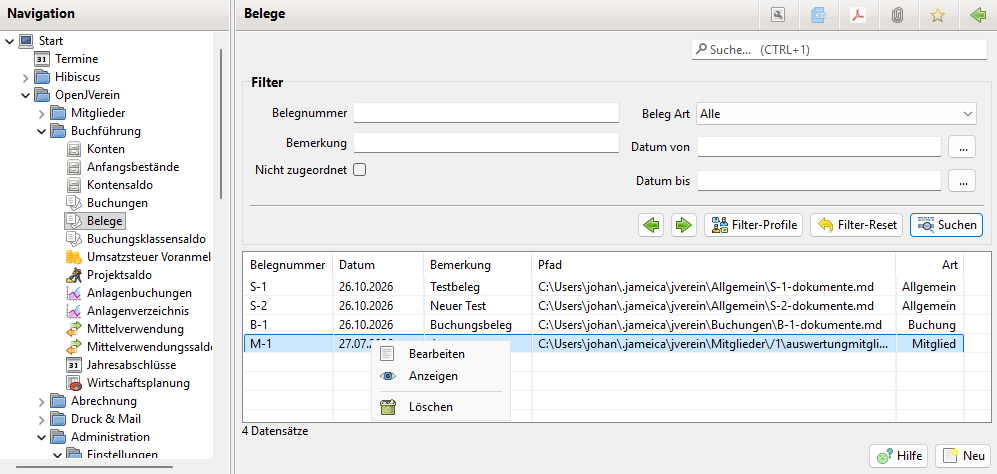
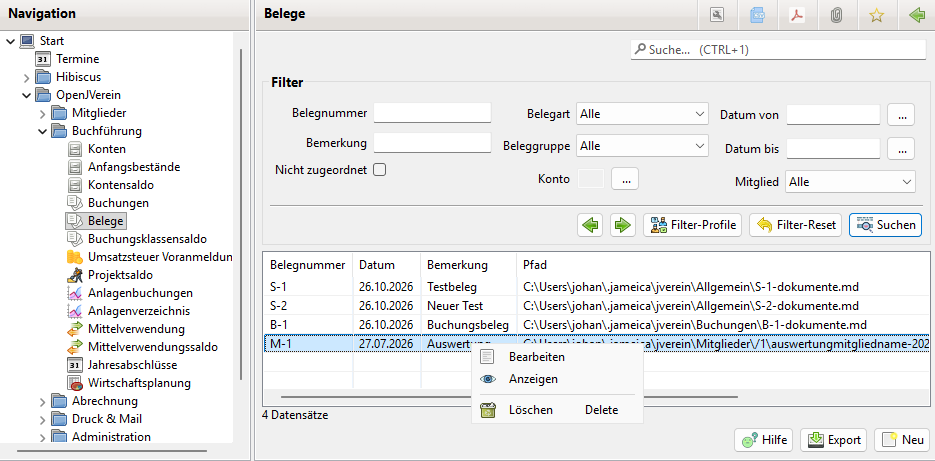
5.0 Updates

Changed region(s): [[0.0, 0.0, 1.0, 1.0]]

diff --git a/v/5.0/buchf/belege.md b/v/5.0/buchf/belege.md
@@ -2,15 +2,26 @@
 
 ## Aktivierung
 
-Zur Nutzung der Beleg ist die Option unter Administration->Einstellungen->Anzeige Dokumentenspeicherung zu aktivieren.
+Zur Nutzung der Belege ist unter Administration->Einstellungen->Anzeige die Option Dokumentenspeicherung zu aktivieren.
 
 
-## Einstellungen
+## Einstellungen für lokale Dokumentenspeicherung
 
 Unter Administration->Einstellungen->Belege können die Wurzelverzeichnisse für die Dokumentspeicherung gesetzt werden. Diese können geändert werden wenn die Dokumente verschoben werden bzw. auf einen anderen Benutzer übertragen werden. Die Verzeichnisse stehen nicht in der Datenbank sondern sind lokal gespeichert.
 
 Unter Administration->Einstellungen->Vorlagen lassen sich die relativen Pfade für die Belege mit Variablen definieren. Ein Beleg wird unter dem  Wurzelverzeichnis und dem relativen Pfad zusammengesetzt.
 
+## Allgemeines
+
+Belege können über Jameica Messaging oder lokal gespeichert werden. es gibt mehrere Arten von Belegen:
+* Allgemeine Belege
+* Buchung Belege
+* Mitglied Belege
+* Konto Belege
+
+Je nach Typ eine Belegs wird dieser bei lokaler Dokumentspeicherung unter einem anderen Verzeichnis gespeichert. 
+
+Unabhängig vom Typ des Belegs kann er trotzdem jeder Buchung, jedem Mitglied oder Konto zugeordnet werden. Ein Beleg kann auch mehreren Objekten gleichzeitig zugeordnet werden.
 
 ## Liste der Belege
 
@@ -20,6 +31,7 @@ In der Liste werden alle Belege aufgelistet und können nach verschiedenen Krite
 
 Folgende Buttons sind vorhanden:
 * Hilfe: Zeigt diese Hilfe an
+* Export: Die Belege lassen sich ein ein externes Verzeichnis exportieren. Dateien lassen sich beim Export nach einem vorgegebenen Muster umbenennen.  Der "Beleg Export Dateiname" lässt sich unter Administration->Einstellungen->Vorlagen unter dem Filter Pfad einstellen
 * Neu: Neuen Beleg erzeugen
 
 Folgende Menü Einträge sind vorhanden:
@@ -35,15 +47,16 @@ Mit dem Neu Button wird ein neuer Beleg angelegt.
 
 Folgende Eingabefelder sind vorhanden:
 * Belegart: Sie bestimmt welcher Pfad zum Speichern verwendet wird und wie die Belegnummer generiert wird
+* Beleggruppe: Sie ist optional. Auch sind erst entsprechende Beleggruppen in den Einstellungen zu erstellen. Siehe [Beleggruppen](../administration/admbuchf/beleggruppe.md).
 * Datum: Hinterlegtes Datum
 * Bemerkung: Text zum Beleg
 * Datei: Hier wird die Datei ausgewählt, die als Beleg gespeichert wird
 
 Belege die hier erzeugt werden sind keiner Buchung oder keinem Mitglied zugeordnet. Das kann später in der Ansicht der Buchung oder des Mitglieds erfolgen.
 
-## Neuer Beleg über Buchung und Mitglied erzeugen
+## Neuer Beleg über Konto, Buchung und Mitglied erzeugen
 
-Im Dialog einer Buchung oder eines Mitglied werden bei aktivierter Dokumentspeicherung die zugeordneten Belege in einer Tabelle angezeigt. Dort lassen sich Belege neu erstellen bzw. bestehende Belege zuordnen.
+Im Dialog eines Kontos, einer Buchung oder eines Mitglied werden bei aktivierter Dokumentspeicherung die zugeordneten Belege in einer Tabelle angezeigt. Dort lassen sich Belege neu erstellen bzw. bestehende Belege zuordnen.
 
 Siehe hierzu [Dokumente](../../../sonstiges/dokumente.md)
 
@@ -62,4 +75,7 @@ Folgende Felder sind vorhanden:
 * Bemerkung: Text zum Beleg
 * Pfad: Pfad unter dem der Beleg gespeichert ist. Diese Information ist nur bei lokaler Speicherung verfügbar
 
-In der Tabelle Buchungen werden diejenigen Buchungen aufgelistet, denen der Beleg zugeordnet ist.
+In den Laschen:
+* Buchungen werden diejenigen Buchungen aufgelistet, denen der Beleg zugeordnet ist
+* Mitglieder werden diejenigen Mitglieder aufgelistet, denen der Beleg zugeordnet ist
+* Konten werden diejenigen Konten aufgelistet, denen der Beleg zugeordnet ist

diff --git a/v/5.0/buchf/buchungen.md b/v/5.0/buchf/buchungen.md
@@ -71,13 +71,34 @@ Buchungen können nur neu aufgenommen, geändert oder gelöscht werden, wenn sie
 
 Durch einen Klick auf den Button "Neu" kann eine neue Buchung erstellt werden.
 
-<picture><img src="https://github.com/openjverein/jverein-Book/raw/master/assets/320_BuchungDialog.png" alt="" /></picture>
+<picture><img src="https://github.com/openjverein/jverein-Book/raw/master/assets/500_BuchungDialog.png" alt="" /></picture>
 
 Falls es sich bei der Buchung um eine Geldspende um einen Verzicht auf Aufwendungen handelt, ist die entsprechende Checkbox zu selektieren.
 
 Handelt es sich bei der Buchung um eine Sachspende so sind die entsprechenden Angaben in der Buchung zu machen.
 
-Falls Dokumentspeicherung aktiviert ist, wird eine Liste angezeigt mit der sich Dokumente zuordnen lassen. Allgemeines zur Dokumentspeicherung siehe [Dokumente](../../../../sonstiges/dokumente.md).
+Falls Dokumentspeicherung aktiviert ist, wird eine Liste angezeigt mit der sich Belege zuordnen lassen. Allgemeines zur Dokumentspeicherung siehe [Dokumente](../../../../sonstiges/dokumente.md).
+
+Über den Button "Neuer Buchungsreport" kann ein Report mit den Daten der Buchung erstellt werden. Falls Dokumentenspeicherung aktiv ist, kann der Reports direkt als Beleg generiert werden. In diesem Fall kann auch die Belegnummer in den Report aufgenommen werden.
+
+## Buchungsreport
+
+Bei Selektion des Menüeintrags "Buchungsreport" oder des Buttons "Neuer Buchungsreport" erscheint folgender Dialog. 
+
+<picture><img src="https://github.com/openjverein/jverein-Book/raw/master/assets/500_BuchungsreportDialog.png" alt="" /></picture>
+
+Es ist ein Formular als Vorlage für den Report auszuwählen. 
+
+Ist Dokumentenspeicherung aktiv werden auch die weiteren Felder angezeigt:
+* Als Beleg speichern: Ist dies nicht selektiert wird mit Übernehmen der Pfadauswahldialog angezeigt in den das generierte Dokument gespeichert werden soll. Ist die Option ausgewählt, wird der Report direkt als Beleg bei der Buchung hinterlegt. Mit der Variablen "$beleg_nummer" lässt sich die Belegnummer in das Dokument einfügen.
+* Datum: Das Datum für den Beleg
+* Beleggruppe: Dieses Feld ist optional und wird als Wert in den Beleg übernommen
+
+Beispiel Ersatzbeleg:
+
+{% file src="../../../assets/500_FormularErsatzbeleg.xml" %}
+Ersatzbeleg
+{% endfile %}
 
 
 ## Zuordnung einer Buchung zu einer Sollbuchung

diff --git a/v/5.0/mitglieder/content/mitglieder.md b/v/5.0/mitglieder/content/mitglieder.md
@@ -100,7 +100,7 @@ Soll nach Zusatzfelder gefiltert werden, kommt es auf den Datentyp des jeweilige
 
 ## Kontextmenu
 
-<picture><img src="https://github.com/openjverein/jverein-Book/raw/master/assets/402_MitgliedMenu.png" alt="" /></picture>
+<picture><img src="https://github.com/openjverein/jverein-Book/raw/master/assets/500_MitgliedMenu.png" alt="" /></picture>
 
 ### Bearbeiten
 
@@ -126,6 +126,14 @@ Die Icons haben fünf Zustände:
 
 <picture><img src="https://github.com/openjverein/jverein-Book/raw/master/assets/320_EigenschaftenAuswahlDialog.png" alt="" /></picture>
 
+### Zusatzbetrag zuordnen
+
+Für alle markierten Mitglieder werden Zusatzbeiträge erzeugt.
+
+<picture><img src="https://github.com/openjverein/jverein-Book/raw/master/assets/401_ZusatzbetragDialog.png" alt="" /></picture>
+
+PS: Zur Nutzung der Zusatzbeträge ist die Option unter Administration->Einstellungen->Anzeige zu aktivieren.
+
 ### Arbeitseinsatz zuordnen
 
 Für alle markierten Mitglieder werden Arbeitseinsätze erzeugt.
@@ -134,13 +142,13 @@ Für alle markierten Mitglieder werden Arbeitseinsätze erzeugt.
 
 PS: Zur Nutzung der Arbeitseinsätze ist die Option unter Administration->Einstellungen->Anzeige zu aktivieren.
 
-### Zusatzbetrag zuordnen
+### Beleg zuordnen
 
-Für alle markierten Mitglieder werden Zusatzbeiträge erzeugt.
+Für alle markierten Mitglieder werden Belege zugeordnet.
 
-<picture><img src="https://github.com/openjverein/jverein-Book/raw/master/assets/401_ZusatzbetragDialog.png" alt="" /></picture>
+Der angezeigte Dialog entspricht dem der Liste der Belege. Es lassen sich auch mehrere Belege auswählen.
 
-PS: Zur Nutzung der Zusatzbeträge ist die Option unter Administration->Einstellungen->Anzeige zu aktivieren.
+PS: Zur Nutzung der Belege ist unter Administration->Einstellungen->Anzeige die Option Dokumentenspeicherung zu aktivieren.
 
 ### Zu Nicht-Mitglied umwandeln
 

diff --git a/v/5.0/buchf/konten.md b/v/5.0/buchf/konten.md
@@ -4,7 +4,7 @@
 
 Bei Auswahl des Konten Eintrags im Navigationsbaum werden alle Konten angezeigt.
 
-<picture><img src="https://github.com/openjverein/jverein-Book/raw/master/assets/320_KontenListeView.png" alt="" /></picture>
+<picture><img src="https://github.com/openjverein/jverein-Book/raw/master/assets/500_KontenListeView.png" alt="" /></picture>
 
 Durch Doppel Klick auf ein Konto werden die Daten der Kontos angezeigt.
 
@@ -17,6 +17,7 @@ Durch Doppel Klick auf ein Konto werden die Daten der Kontos angezeigt.
 
 * Konten zum Bearbeiten anzeigen
 * Ein Anfangsbestand erzeugen (Ab Version 4.1 wird beim Anlegen eines neuen Kontos automatisch ein Anfangsbestand zum Eröffnungsdatum des Kontos mit Betrag 0€ angelegt)
+* Beleg zuordnen: Diese Option ist nur verfügbar wenn unter Administration->Einstellungen->Anzeige die Option Dokumentenspeicherung aktiv ist
 * Das Konto löschen
 
 ## Kontenarten
@@ -30,6 +31,7 @@ Ab JVerein 2.8.23 wird die Unterstützung von Anlagenkonten erweitert. Anlagenko
 * Kontoart Anlagenkonto 
 * Anzeige der Anlagenkonten und AfA Buchungen in einem eigenen [Anlagenbuchungen View](anlagenbuchungen.md)
 * Erstellung eines [Anlagenverzeichnisses](anlagenverzeichnis.md)
+* Belege zuordnen: Nur verfügbar wenn 
 * Unterstützung bei der Generierung von AfA Buchungen
 
 Ab JVerein 3.0.0 gibt es zusätzlich folgende Kontoarten (Rücklagenkonten sind unter Administration->Einstellungen->Anzeige zu aktivieren):

diff --git a/v/5.0/administration/admbuchf/beleggruppe.md b/v/5.0/administration/admbuchf/beleggruppe.md
@@ -1,0 +1,26 @@
+# Beleggruppen
+
+## Aktivierung
+
+Zur Nutzung der Beleggruppen ist unter Administration->Einstellungen->Anzeige die die Option Dokumentenspeicherung zu aktivieren.
+
+
+## Allgemeines
+
+Die Beleggruppen dienen um Belege gruppieren zu können. So kann die Beleggruppe als teil des Speicherpfades eines Belegs verwendet werden. Auch kann in der Liste der Belege nach der Beleggruppe gefiltert werden.
+
+## Liste der Beleggruppen
+
+Eine Liste der Beleggruppen kann über den Eintrag Administration->Buchführung->Beleggruppen im Navigationsbaum angezeigt werden.
+
+<picture><img src="https://github.com/openjverein/jverein-Book/raw/master/assets/500_BeleggruppenListeView.png" alt="" /></picture>
+
+Über den Neu Button können neue Beleggruppen erzeugt werden.
+
+Über das Kontextmenü können bestehende Beleggruppen bearbeitet und gelöscht werden.
+
+## Beleggruppe
+
+Bei der Erstellung einer neuen Beleggruppen erscheint folgende Anzeige.
+
+<picture><img src="https://github.com/openjverein/jverein-Book/raw/master/assets/500_BeleggruppeView.png" alt="" /></picture>

diff --git a/v/5.0/mitglieder/rechnung.md b/v/5.0/mitglieder/rechnung.md
@@ -52,11 +52,11 @@ Durch einen Rechtsklick auf eine Rechnung öffnet sich ein Kontextmenü mit mehr
 
 Mit einem Doppelklick auf die Rechnung oder Klick auf Anzeigen wird die Rechnung angezeigt.
 
-<picture><img src="https://github.com/openjverein/jverein-Book/raw/master/assets/401_RechnungView.png" alt="" /></picture>
+<picture><img src="https://github.com/openjverein/jverein-Book/raw/master/assets/500_RechnungView.png" alt="" /></picture>
 
 Folgende Buttons stehen zu Verfügung:
 
 * Druck und Mail: Wechselt in den Dialog zum Drucken und Mailen der Rechnung, siehe [Rechnungen](../druckmail/rechnungen.md)
 * Mahnung Druck und Mail: Wechselt in den Dialog zum Drucken und Mailen einer Mahnung zur Rechnung, siehe [Mahnungen](../druckmail/mahnungen.md)
-* Rechnung anzeigen: Zeigt das Rechnungsdokument an
+* Anzeigen: Zeigt das Rechnungsdokument an
 * Speichern: Änderungen von Formular und Kommentar werden gespeichert

diff --git a/SUMMARY.md b/SUMMARY.md
@@ -989,6 +989,7 @@
     * [Buchführung](v/5.0/administration/admbuchf/README.md)
       * [Buchungsklassen](v/5.0/administration/admbuchf/buchungsklasse.md)
       * [Buchungsarten](v/5.0/administration/admbuchf/buchungsart.md)
+      * [Beleggruppen](v/5.0/administration/admbuchf/beleggruppe.md)
       * [Kontenrahmen Import Export](v/5.0/administration/admbuchf/kontenrahmen-import-export.md)
       * [Projekte](v/5.0/administration/admbuchf/projekte.md)
       * [Steuer](v/5.0/administration/admbuchf/steuer.md)
